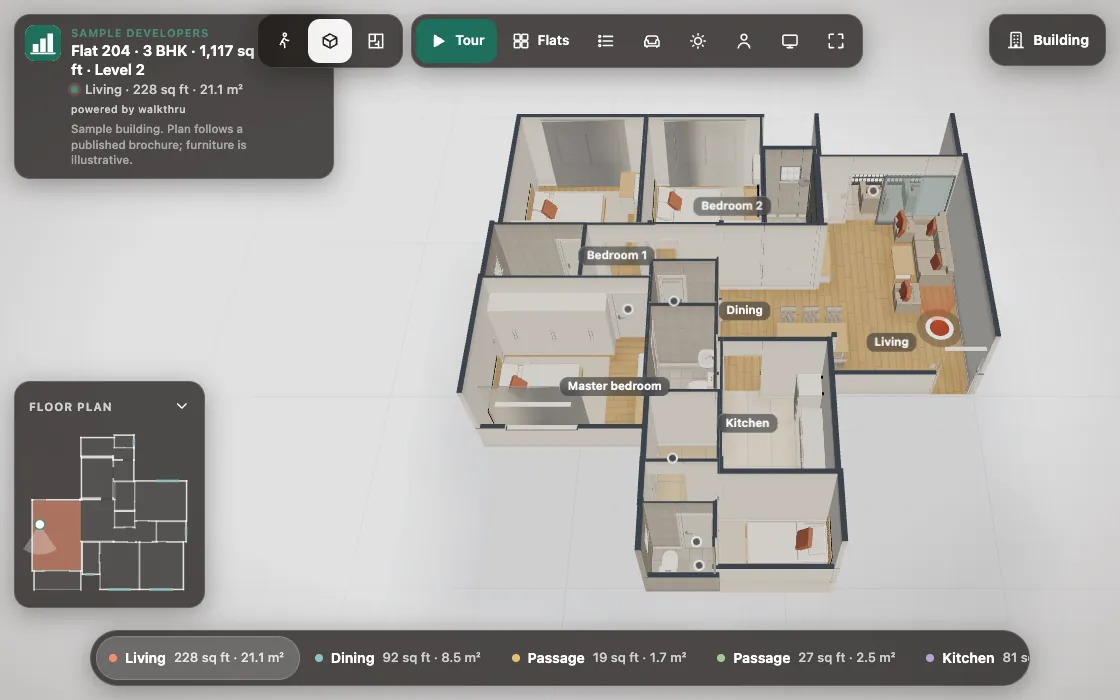
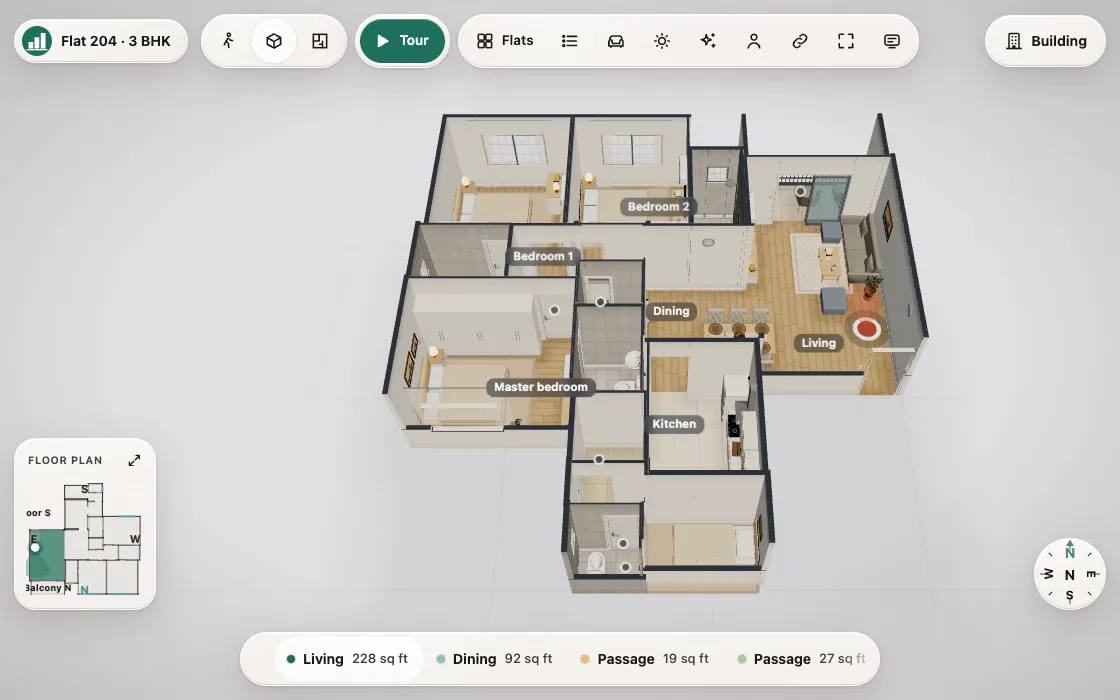
Homepage pictures re-shot from today's app: real furniture, the new bake, the firstbeam name; new link-preview image

diff --git a/src/landing/landing.ts b/src/landing/landing.ts
@@ -41,8 +41,8 @@ const SHOTS: { file: string; w: number; h: number; title: string; text: string; 
   { file: 'tour', w: 1280, h: 800, wide: true, title: 'A guided tour', text: 'One tap, and the home is walked room by room, each room named as you arrive.', alt: 'A furnished room in the 3D walk during the tour, with the tour’s card naming the room.' },
   { file: 'doll', w: 1120, h: 700, title: 'Doll house', text: 'The whole flat from above with the ceiling off, furniture and all.', alt: 'A furnished flat seen from above as a doll house, every room open.' },
   { file: 'plan', w: 1280, h: 800, title: 'Plan view', text: 'The floor plan with room names and sizes, one tap from the walk.', alt: 'The floor plan of a flat with room names and sizes.' },
-  { file: 'map', w: 1440, h: 900, title: 'The whole building', text: 'Every level and every flat on one map. Pick a place and walk in.', alt: 'The building’s map page: its levels, and the plan of one level with its four flats.' },
-  { file: 'pool', w: 1280, h: 800, title: 'Clubhouse and pool', text: 'The amenities are walked like any room: the pool deck, the gym, the halls.', alt: 'The pool deck of the clubhouse level in the 3D walk.' },
+  { file: 'map', w: 1440, h: 900, title: 'The whole building', text: 'Every floor and every flat on one page. Pick a flat and walk in.', alt: 'The building page: the tower drawn floor by floor beside a grid of every flat with its number and type.' },
+  { file: 'pool', w: 1280, h: 720, title: 'Clubhouse and pool', text: 'The amenities are walked like any room: the pool deck, the gym, the halls.', alt: 'The pool deck of the clubhouse level in the 3D walk.' },
   { file: 'materials', w: 1280, h: 800, title: 'Realistic materials', text: 'Wood, stone and fabric from photographed material maps.', alt: 'A kitchen in the 3D walk with photographed wood and stone materials.' },
   { file: 'clean', w: 1600, h: 900, title: 'Made for the sales-room screen', text: 'On a big screen the controls step away, and the home is the picture.', alt: 'A living room filling the screen with the controls hidden.' },
 ];

diff --git a/SPEC.md b/SPEC.md
@@ -350,8 +350,8 @@ Every scene (a lone home, an uploaded plan, each space of a building) opens in *
 The page a developer's marketing head is sent to. It sells a done-for-you, white-labelled service (18.15): we turn a project's drawings and brochure into a walkable building under the builder's brand. It shows only at the bare address (`/`, `/#how-it-works`, `/#projects`, or with nothing but share tags such as `utm_*` and `fbclid`: `isLandingAddress` in `address.ts`); any parameter the app reads keeps the page it always opened (`?home=`, `?building=`, `?scene=`, `?check=`, the view and sales-room settings). It is part of the start chunk: no three.js.
 
 **The page, top to bottom.** Dark (the boot screen's warm charcoal, warm off-white text, terracotta the one accent) except the Projects band.
-- **Hero.** A slim rounded nav (mark, wordmark, "Walk a project", and "Talk to us" when `CONTACT_URL` is set), the label "White-labelled 3D walkthroughs for real-estate developers", the headline "We make your project / impossible to ignore" with a hand-drawn stroke that draws in once under the second line, the building (below), one paragraph, "Walk a sample project" (the featured building's map page) and "See how it works", then three facts: "Under your brand", "Built from your drawings, with AI", "Lobby to flat, clubhouse and pool in one walk". On a phone the building stands between the headline and the paragraph, so it is in the first screen. No numbers, customers, logos or testimonials. The copy says what is true: the plan reader is AI, a team assembles and checks; nothing is called automatic or instant.
-- **How it works** (three steps: you send the drawings and the brochure; AI reads the plans and we build and check; you get a link under your brand) and **What you get**: eight real pictures of the product, taken from the running sample (`public/landing/*.webp`, each under 100 KB, lazy, sizes set): the branded walk, the tour, the doll house, the plan, the building map, the pool deck, realistic materials, the clean view. They are captured with `tools/landing-shot.cdp.js` at `?building=sample-tower&space=lobby|f2-204|pool&autohide=0` (with `&view=doll`, `&view=plan`, the Tour button pressed, `&cam=first`), `?building=sample-tower` with Level 2 picked, and `?scene=test-tower-flat-3bhk-a&at=2,6,0&cam=first&materials=2k` and `&at=2,7.2,0` with Clean view pressed; then `cwebp -q 80`.
+- **Hero.** A slim rounded nav (mark, wordmark, "Walk a project", and "Talk to us" when `CONTACT_URL` is set), the label "White-labelled 3D walkthroughs for real-estate developers", the headline, which is the tagline "Have your building / walkthrough ready / before you place / the first beam" (`TAGLINE`, also the tab and link-preview title), with a hand-drawn stroke that draws in once under the last line; "We make your project impossible to ignore" heads the closing band, the building (below), one paragraph, "Walk a sample project" (the featured building's map page) and "See how it works", then three facts: "Under your brand", "Built from your drawings, with AI", "Lobby to flat, clubhouse and pool in one walk". On a phone the building stands between the headline and the paragraph, so it is in the first screen. No numbers, customers, logos or testimonials. The copy says what is true: the plan reader is AI, a team assembles and checks; nothing is called automatic or instant.
+- **How it works** (three steps: you send the drawings and the brochure; AI reads the plans and we build and check; you get a link under your brand) and **What you get**: eight real pictures of the product, taken from the running sample (`public/landing/*.webp`, each under 100 KB, lazy, sizes set): the branded walk, the tour, the doll house, the plan, the building map, the pool deck, realistic materials, the clean view. They are captured with `tools/landing-shot.cdp.js` (23 Nov 2026, after the CC BY furniture and its re-bake): the lobby at `?building=sample-tower&space=lobby&chrome=always` with the identity card opened; Flat 204 at `?building=sample-tower&space=f2-204&autohide=0` with the Tour button pressed, `&view=doll` and `&view=plan`; the building page `?building=sample-tower`; `?scene=test-tower-flat-3bhk-a&at=2,6,0&cam=first&materials=2k&autohide=0` and `&at=2,7.2,0&cam=first&chrome=hidden`. The pool deck is the real/outdoor capture `app-pool-deck-after.png` at 1280 x 720. They are encoded to WebP at quality 0.8 (the pool 0.62, to stay under 100 KB) by headless Chrome's canvas encoder, since `cwebp` is not installed here.
 - **Projects band** (paper): the heading "Projects", then the buildings, the homes, "Your uploads" and the upload card exactly as the start page renders them (`renderGallery` draws into the band).
 - **Closing band**: the headline again, the primary button, "Talk to us" when there is an address, a small foot.
 - **Contact.** `CONTACT_URL` in `config.ts` (a `mailto:`, `https:` or `tel:` address, checked by `contactHref`). Empty, as now: no contact button anywhere.
